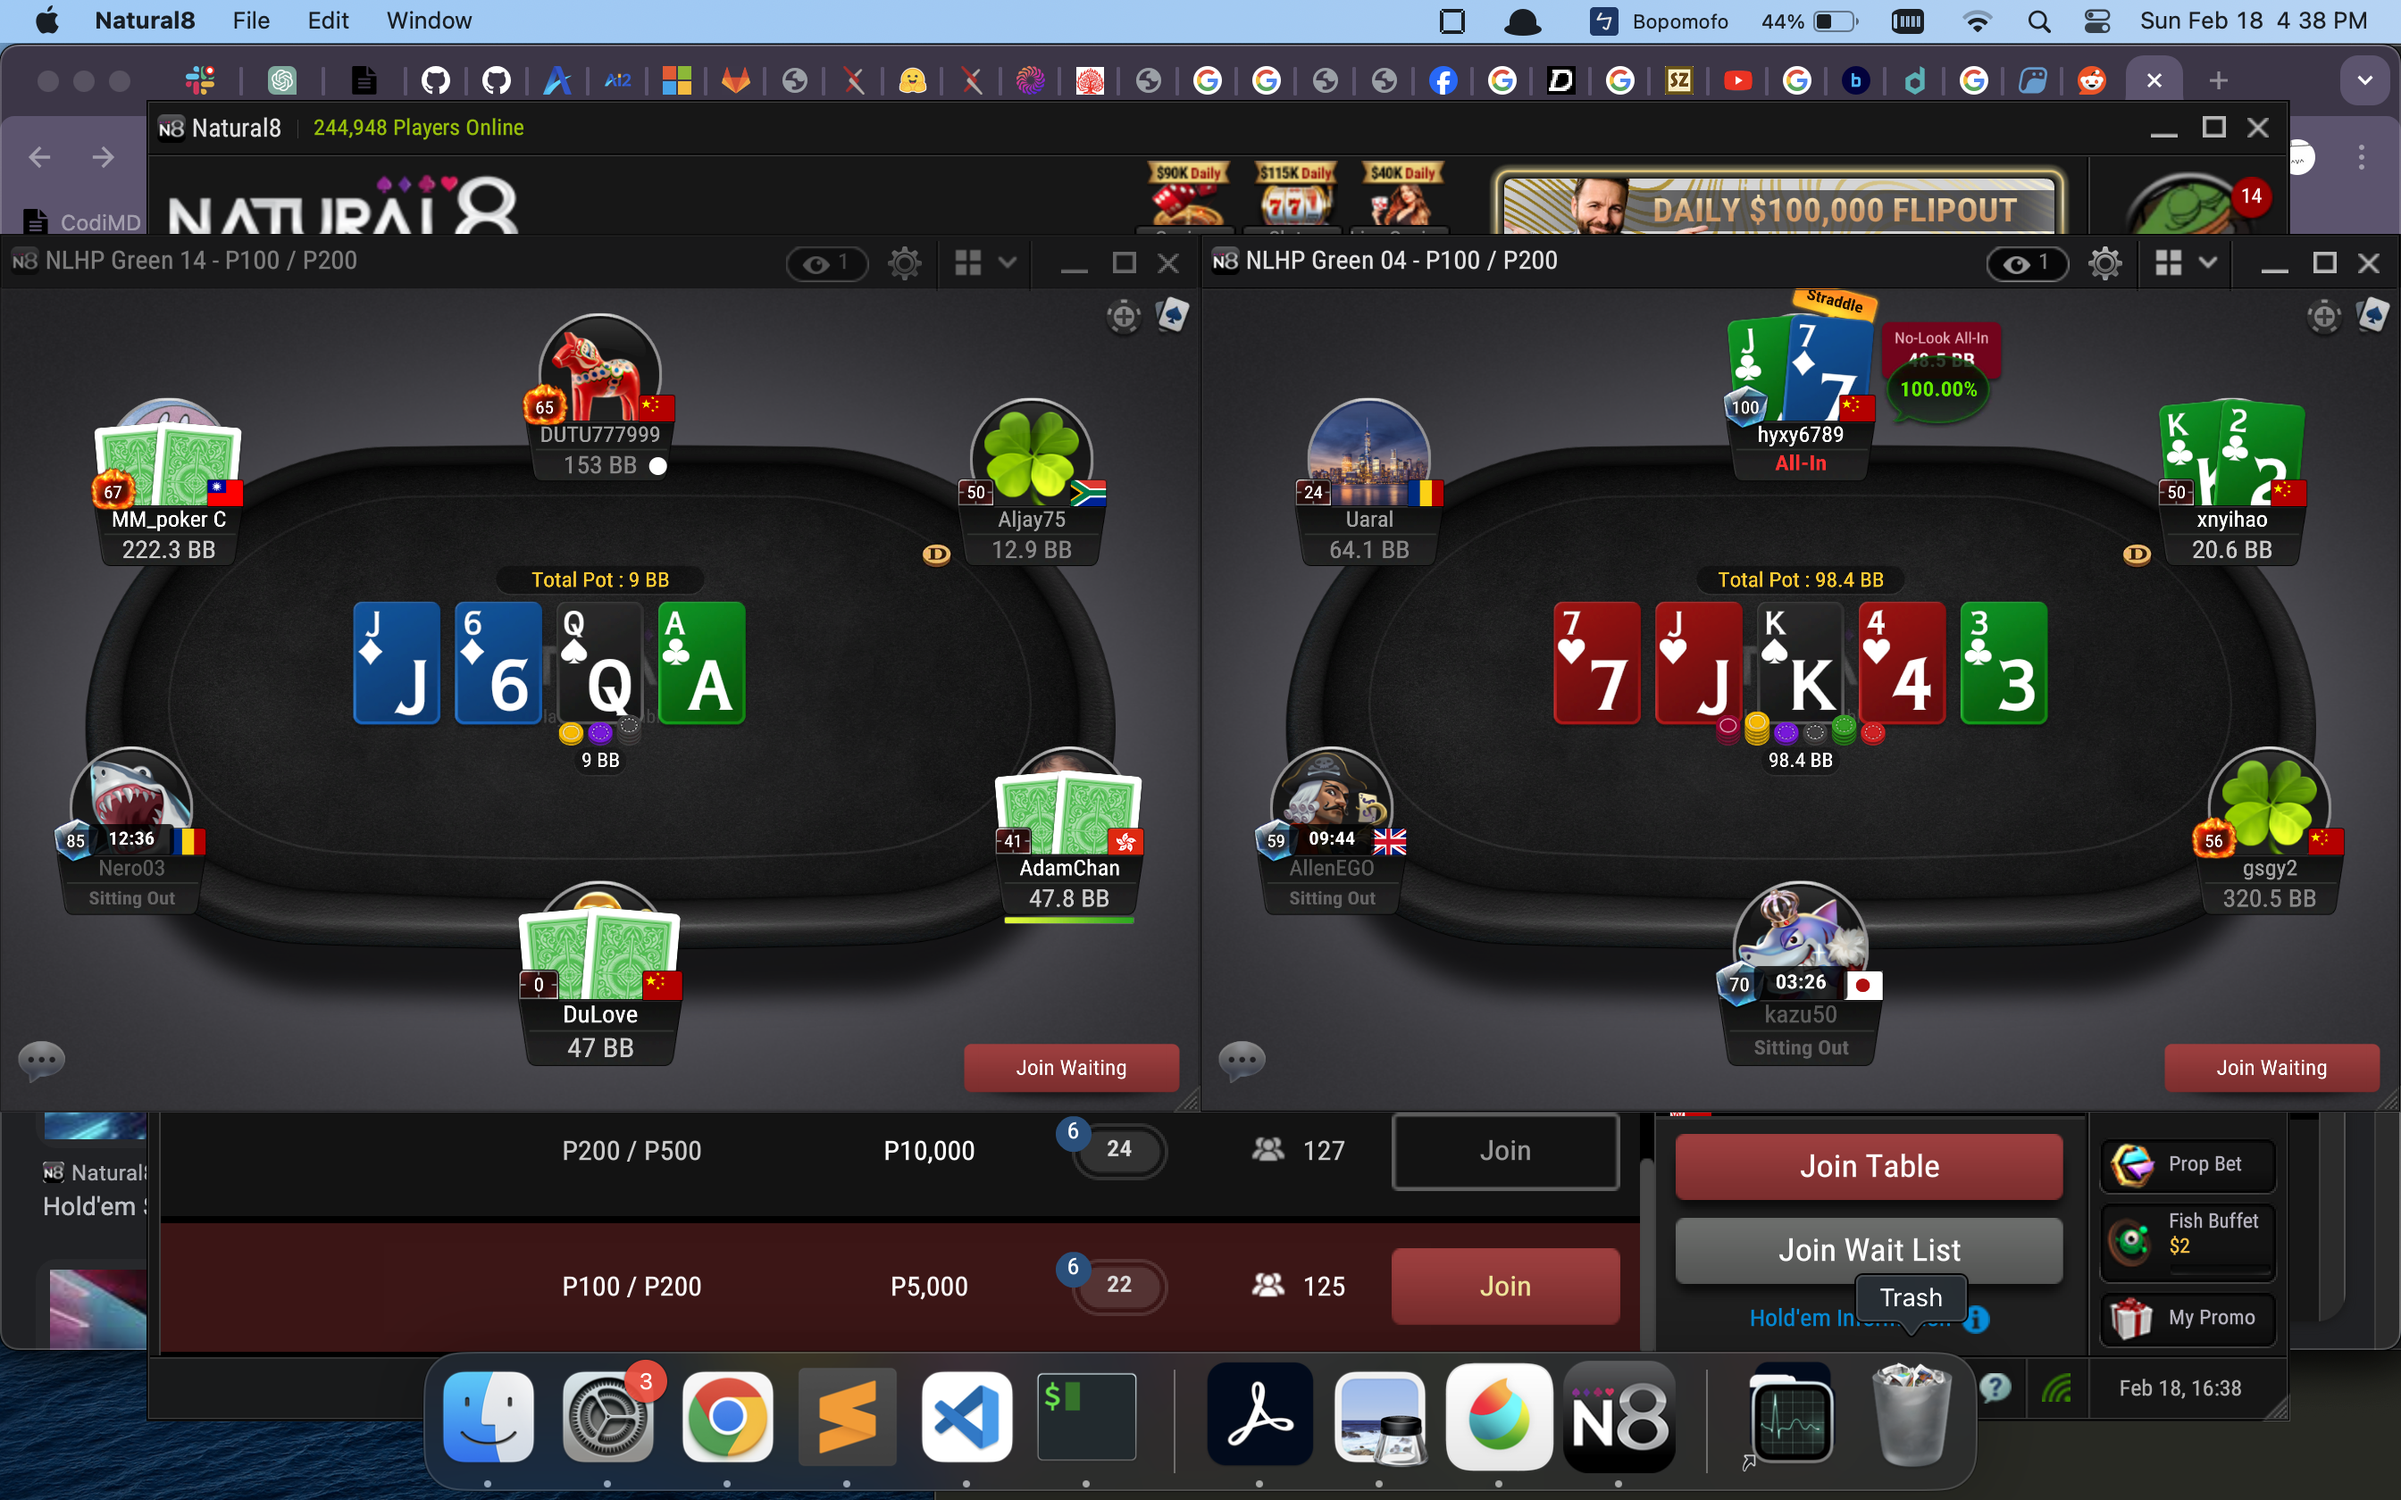
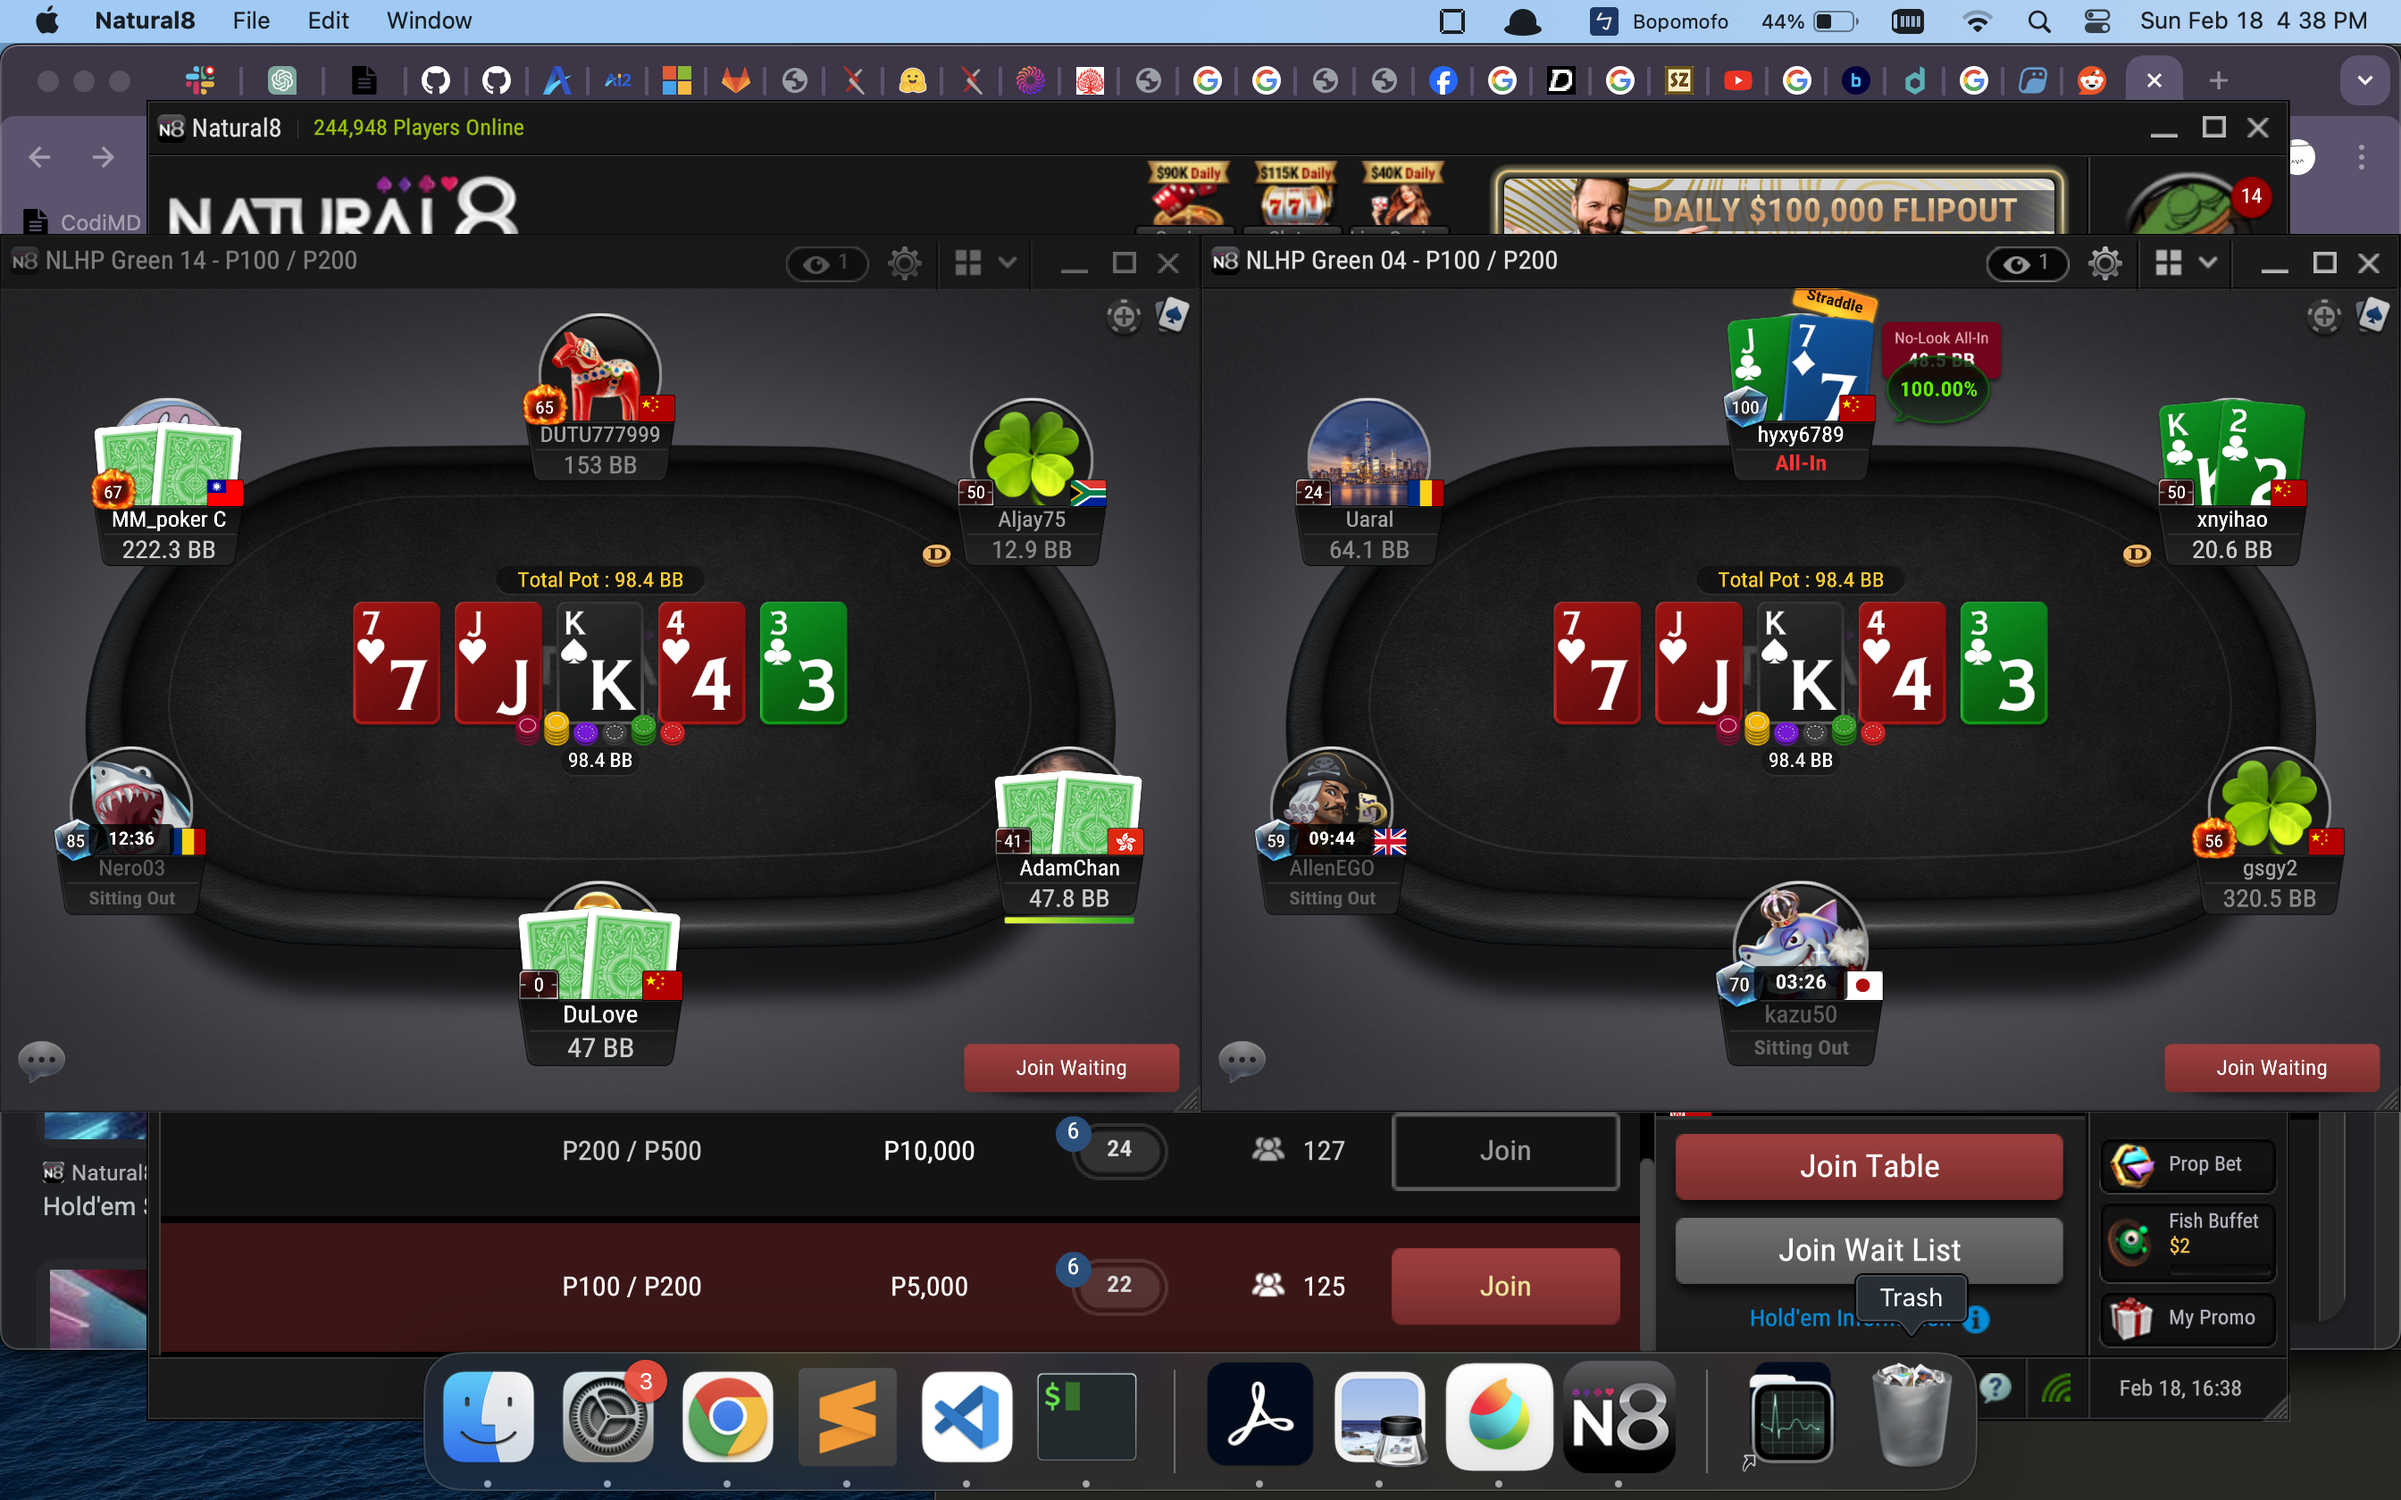
Done board classify

Changed region(s): [[0.125, 0.3714, 0.375, 0.5262]]

diff --git a/crop.py b/crop.py
@@ -1,10 +1,27 @@
 import cv2
 import json
 import os
+import numpy as np
 from pathlib import Path
 
-image = cv2.imread("resources/btn_B.png")
+
+image = cv2.imread("resources/btn_UR.png")
+image_gray = cv2.imread("resources/btn_UR.png", 0)
+
 RES_DIR = Path("debug_crop")
+def pix2suit(pixel) -> str:
+    if max(pixel) < 70:
+        return "s"
+    else:
+        max_pixel = pixel.argmax()
+        if max_pixel == 2: # R
+            return "h"
+        elif max_pixel == 1: # G
+            return "c"
+        elif max_pixel == 0: # B
+            return "d"
+    raise ValueError("Invalid pixel")
+
 with open('box.json', newline='') as file:
     data = json.load(file)
 
@@ -13,6 +30,7 @@ if not os.path.isdir(RES_DIR):
     os.mkdir(RES_DIR / "stack_size")
     os.mkdir(RES_DIR / "bet_size")
     os.mkdir(RES_DIR / "btn")
+    os.mkdir(RES_DIR / "board")
 
 
 PLAYERS_NAME = data["stack_ori"].keys()
@@ -22,14 +40,17 @@ PLAYERS_NAME = data["stack_ori"].keys()
 w, h = data["wh"][0], data["wh"][1]
 x, y = data["ori"][0], data["ori"][1]
 cropped_image = image[ y:y+h, x: x+w]
-cv2.imwrite(f"{RES_DIR}/src.jpg", cropped_image)
+cv2.imwrite(f"{RES_DIR}/cropped.jpg", cropped_image)
+ret, image_th = cv2.threshold(image_gray, 127, 255, cv2.THRESH_BINARY)
+cv2.imwrite(f"{RES_DIR}/thres.jpg", image_th)
+
 
 
 # get stack size
 for player in PLAYERS_NAME:
     w, h = data["stack_wh"][0], data["stack_wh"][1]
     x, y = data["stack_ori"][player][0], data["stack_ori"][player][1]
-    cropped_image = image[ y:y+h, x : x+w]
+    cropped_image = image_th[ y:y+h, x : x+w]
     # Save the cropped image
     cv2.imwrite(f"{RES_DIR}/stack_size/{player}.jpg", cropped_image)
 
@@ -37,14 +58,14 @@ for player in PLAYERS_NAME:
 for player in PLAYERS_NAME:
     w, h = data["bet_wh"][0], data["bet_wh"][1]
     x, y = data["bet_ori"][player][0], data["bet_ori"][player][1]
-    cropped_image = image[ y:y+h, x : x+w]
+    cropped_image = image_th[ y:y+h, x : x+w]
     # Save the cropped image
     cv2.imwrite(f"{RES_DIR}/bet_size/{player}.jpg", cropped_image)
 
 # get pot size
 w, h = data["pot_wh"][0], data["pot_wh"][1]
 x, y = data["pot_ori"][0], data["pot_ori"][1]
-cropped_image = image[ y:y+h, x : x+w]
+cropped_image = image_th[ y:y+h, x : x+w]
 cv2.imwrite(f"{RES_DIR}/pot.jpg", cropped_image)
 
 
@@ -62,7 +83,7 @@ for player in PLAYERS_NAME:
 w, h = data["btn_wh"][0], data["btn_wh"][1]
 for player in PLAYERS_NAME:
     x, y = data["btn_ori"][player][0], data["btn_ori"][player][1]
-    cropped_image = image[ y:y+h, x : x+w]
+    cropped_image = image_th[ y:y+h, x : x+w]
     cv2.imwrite(f"{RES_DIR}/btn/{player}.jpg", cropped_image)
 """
 black: 22~25
@@ -71,3 +92,10 @@ btn: 72~75
 is_btn:
 cropped_image.mean() > 50
 """
+# crop card
+w,h = data["boardcard_wh"][0], data["boardcard_wh"][1]
+for i, card in enumerate(data["board"]):
+    x, y = card[0], card[1]
+    suit = pix2suit(image[y,x])
+    cropped_image = image_th[ y:y+h, x : x+w]
+    cv2.imwrite(f"{RES_DIR}/board/{i}_{suit}.jpg", cropped_image)

diff --git a/extract_info.py b/extract_info.py
@@ -17,13 +17,31 @@ with open('box.json', newline='') as file:
 PLAYERS_NAME = data["stack_ori"].keys()
 
 # checkout https://www.cnblogs.com/pyweb/p/11340357.html
-image_to_string_cfg = "--psm 1" # 1 3 4 5 11 12
+"""
+  0 Orientation and script detection (OSD) only.
+  1 Automatic page segmentation with OSD.
+  2 Automatic page segmentation, but no OSD, or OCR.
+  3 Fully automatic page segmentation, but no OSD. (Default)
+  4 Assume a single column of text of variable sizes.
+  5 Assume a single uniform block of vertically aligned text.
+  6 Assume a single uniform block of text.
+  7 Treat the image as a single text line.
+  8 Treat the image as a single word.
+  9 Treat the image as a single word in a circle.
+  10 Treat the image as a single character.
+  11 Sparse text. Find as much text as possible in no particular order.
+  12 Sparse text with OSD.
+  13 Raw line. Treat the image as a single text line,
+"""
+
+CFG_STR = "--psm 1" # 1 3 4 5 11 12
+CFG_CHR = "--psm 9" # 8 9 13  : 8 13 bad result
 """
 Extract bet size
 """
 for img_file in (CROP_DIR / "bet_size").rglob("*.jpg"):
     image = cv2.imread(str(img_file))
-    results = pytesseract.image_to_string(image, config=image_to_string_cfg)
+    results = pytesseract.image_to_string(image, config=CFG_STR)
     try:
         if results == "":
             bb = ""
@@ -40,7 +58,8 @@ Extract stack size
 """
 for img_file in (CROP_DIR / "stack_size").rglob("*.jpg"):
     image = cv2.imread(str(img_file))
-    results = pytesseract.image_to_string(image, config=image_to_string_cfg)
+    results = pytesseract.image_to_string(image, config=CFG_STR)
+    results = results.replace("\n"," ")
     try:
         if results == "":
             bb = ""
@@ -60,7 +79,7 @@ for img_file in (CROP_DIR / "stack_size").rglob("*.jpg"):
 Extract pot size
 """
 image = cv2.imread(str(CROP_DIR/"pot.jpg"))
-results =pytesseract.image_to_string(image, config=image_to_string_cfg)
+results =pytesseract.image_to_string(image, config=CFG_STR)
 bb = re.search(r':(.*?)BB', results).group(1).strip()
 assert(is_number(bb))
 with open( CROP_DIR/"pot.txt", "w") as f:
@@ -70,14 +89,29 @@ with open( CROP_DIR/"pot.txt", "w") as f:
 """
 Extract btn position
 """
-max_mean = 0
+max_sum = 0
 btn = None
 for img_file in (CROP_DIR / "btn").rglob("*.jpg"):
     name = img_file.stem
     image = cv2.imread(str(img_file))
-    m = image.mean()
-    if m > max_mean:
-        max_mean = m
+    m = image.sum()
+    if m > max_sum:
+        max_sum = m
         btn = name
 with open( CROP_DIR/"btn.txt", "w") as f:
     f.write(btn)
+
+"""
+Extract board
+"""
+res = []
+for img_file in (CROP_DIR / "board").rglob("*.jpg"):
+    image = cv2.imread(str(img_file))
+    suit = img_file.stem.split("_")[-1]
+    results = pytesseract.image_to_string(image, config=CFG_CHR).strip()
+    if results == "":
+        continue
+    else:
+        res.append( f"{results}{suit}")
+with open(CROP_DIR / "board/cards.json", 'w') as f:
+    json.dump(res, f, indent=4, sort_keys=True)

diff --git a/thres.py b/thres.py
@@ -1,0 +1,7 @@
+import cv2
+import numpy as np
+from matplotlib import pyplot as plt
+
+img = cv2.imread('resources/btn_U.png', 0)
+ret, th1 = cv2.threshold(img, 127, 255, cv2.THRESH_BINARY)
+cv2.imwrite(f"tmp/thres.jpg", th1)
